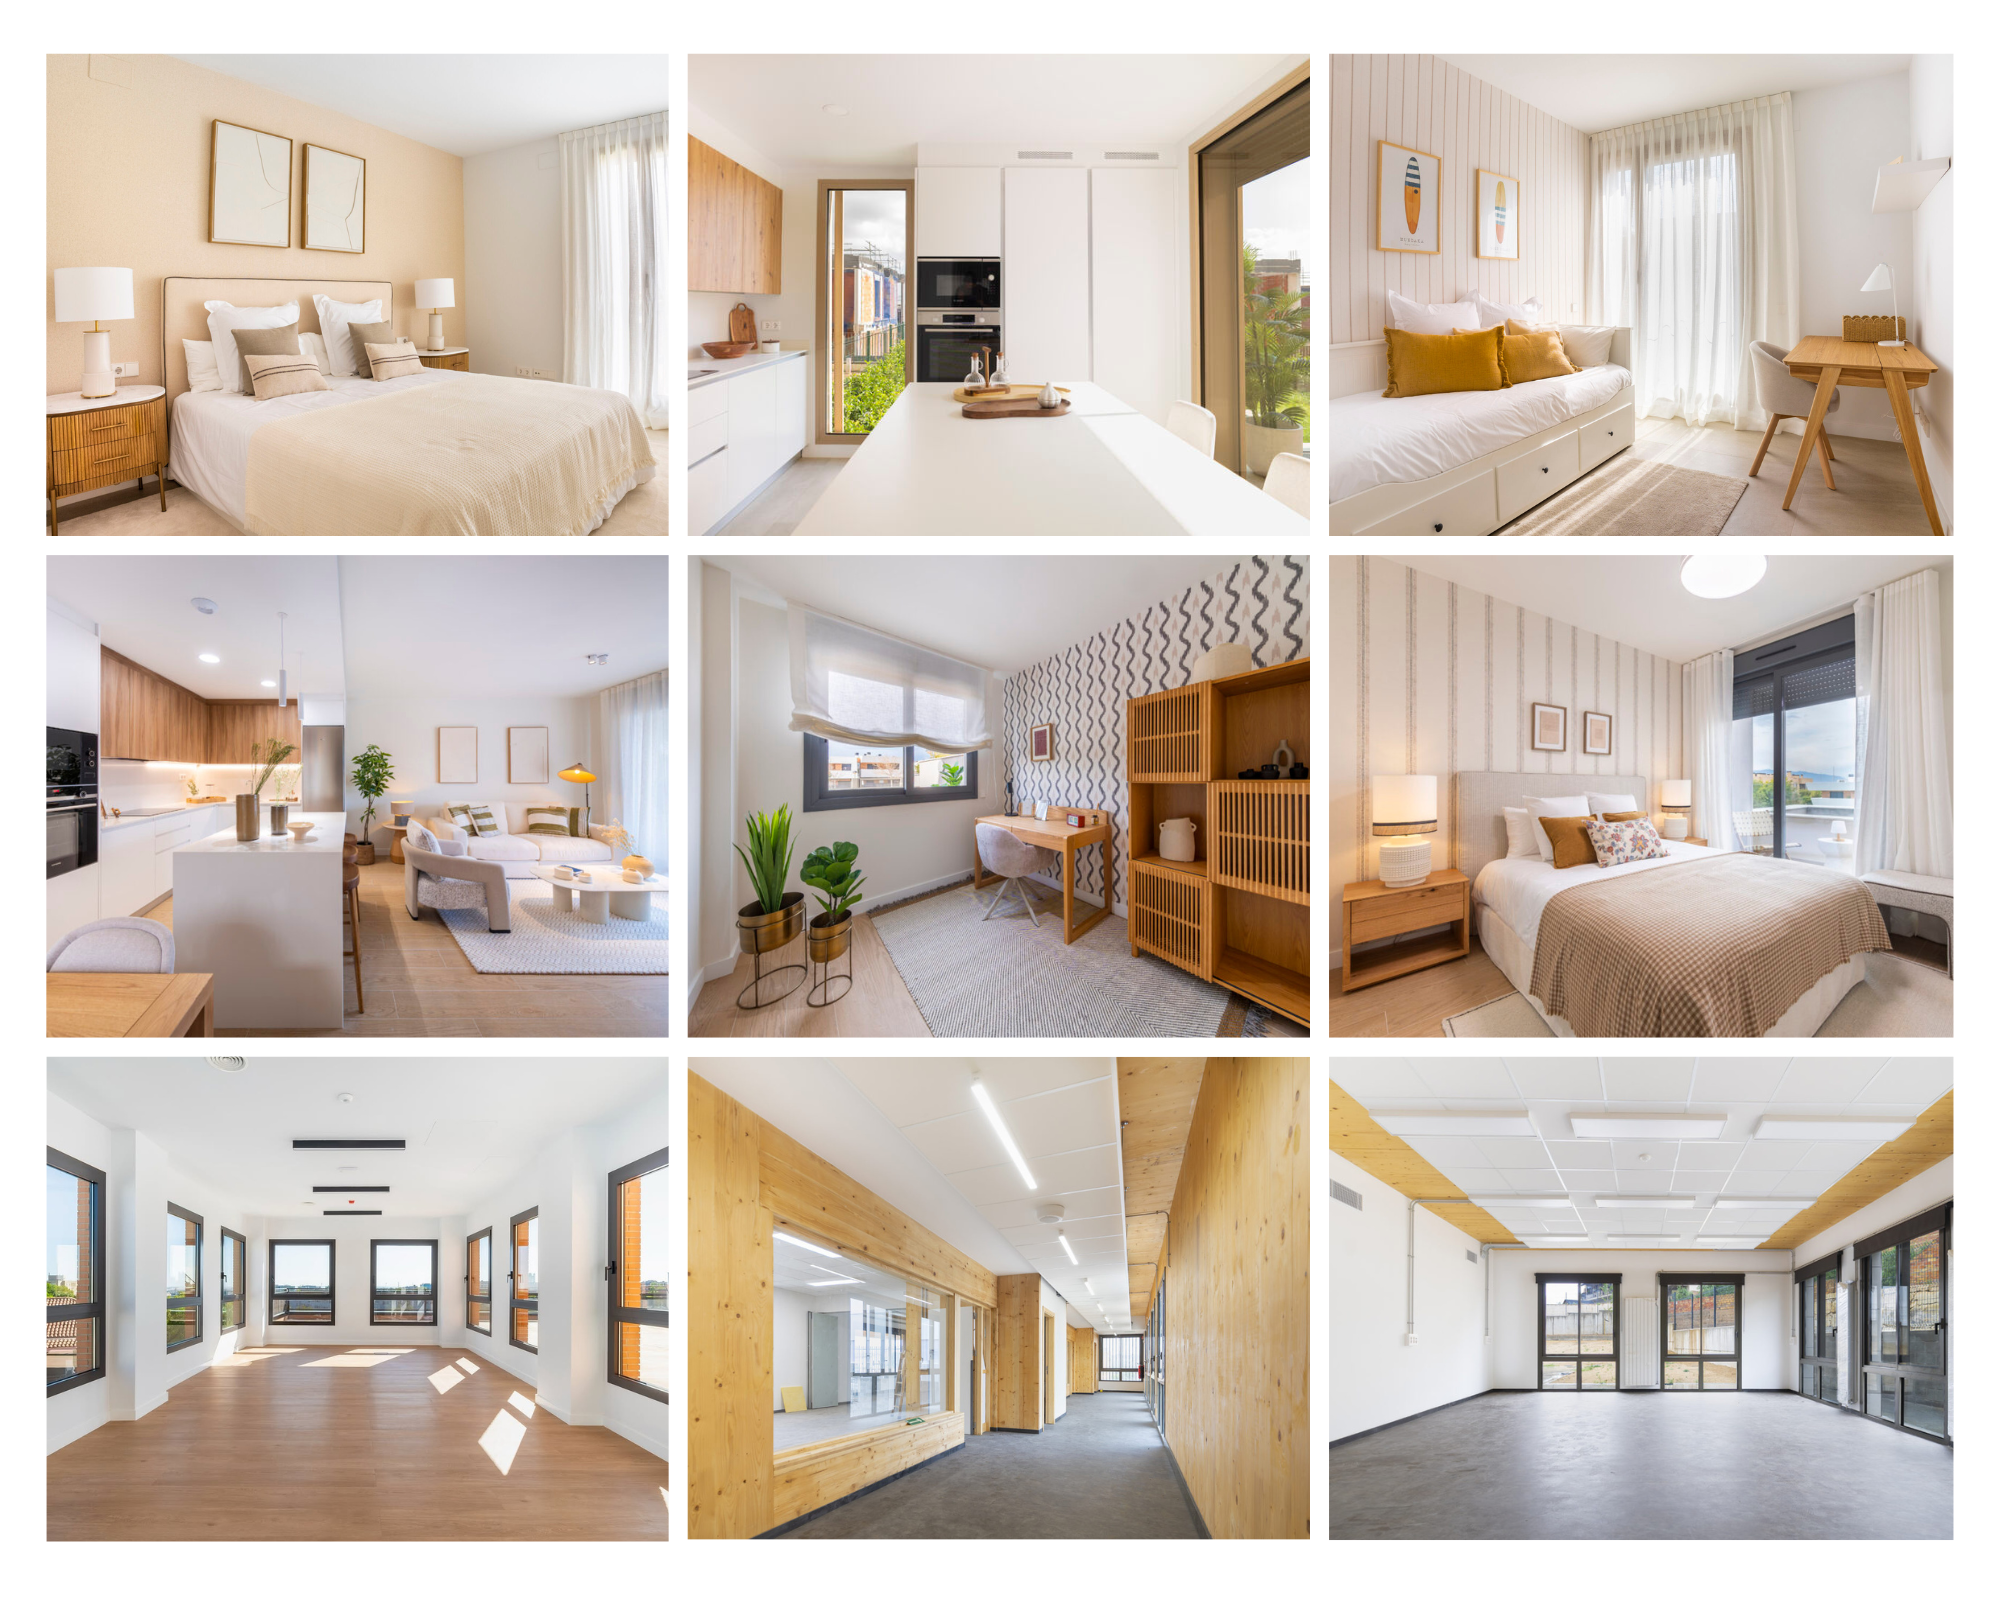
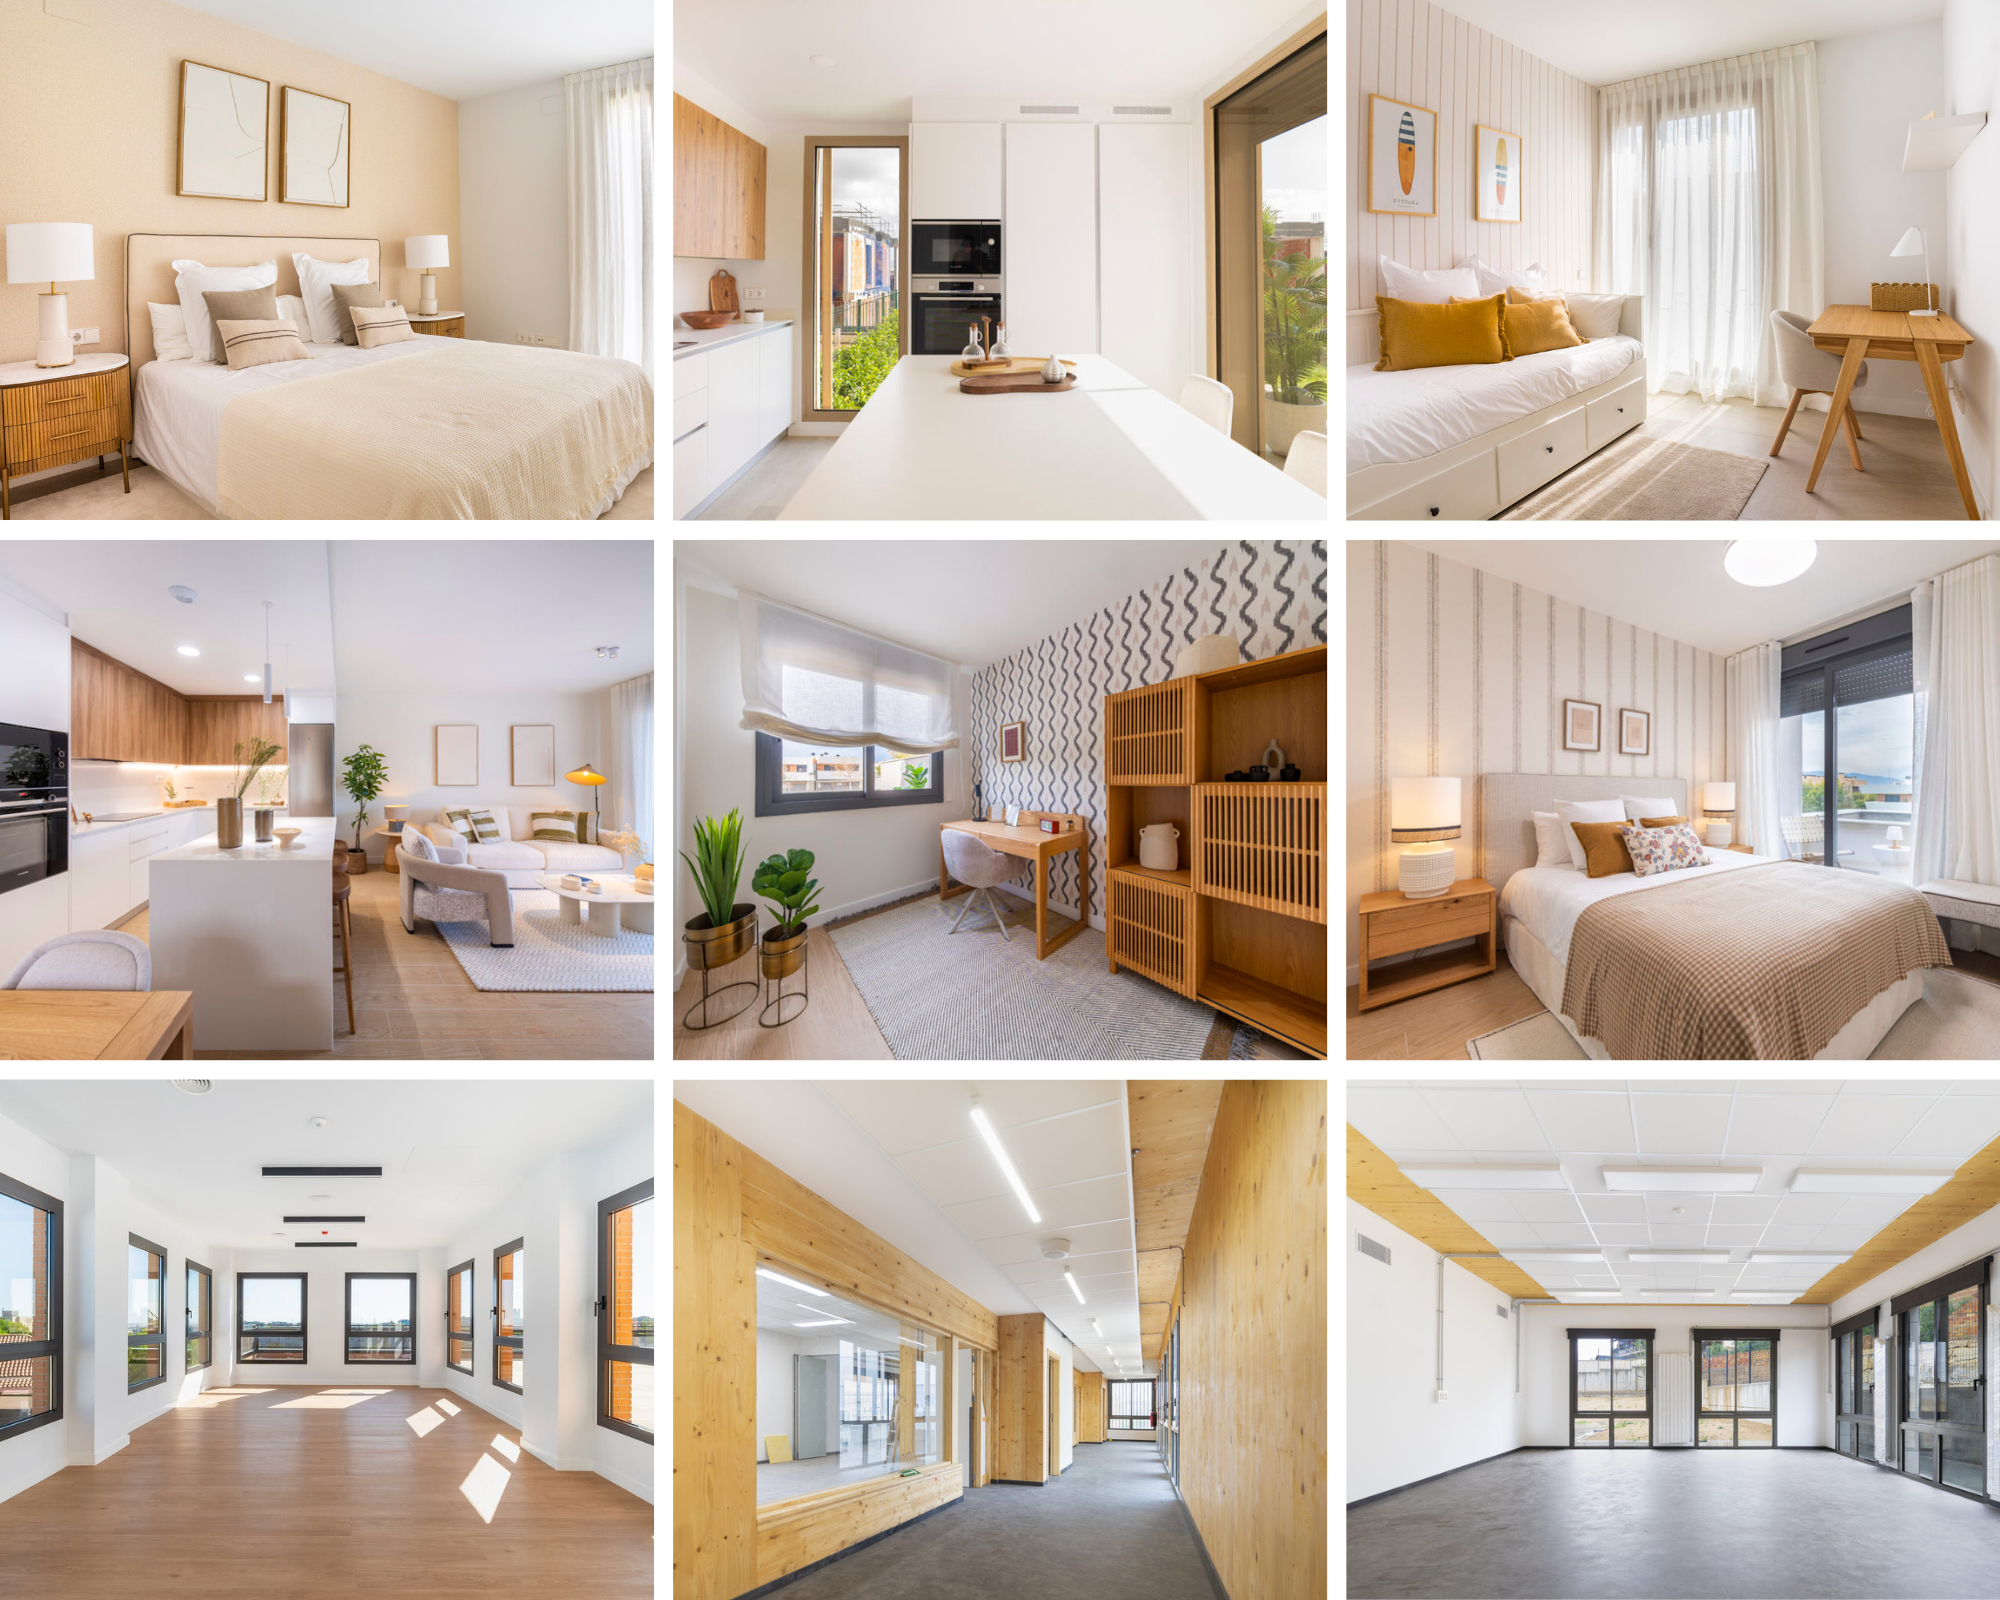
Perfeccionar la web

diff --git a/index.html b/index.html
@@ -162,9 +162,12 @@
       <p class="video-desc">Edición y postproducción fotográfica de imágenes aéreas y terrestres para más de 60 centros deportivos en España e Italia. Trabajo centrado en la corrección de color, equilibrio de iluminación y coherencia visual entre diferentes ubicaciones, asegurando una representación uniforme de la marca en sus canales digitales.</p>
       <div class="project-foto">
         <img src="media/collage%20forus.png" alt="Centros Deportivos Forus">
-        <span class="foto-thumb-label">(Lightroom Classic · Photoshop)</span>
+        <span class="foto-thumb-label">Las imágenes han sido capturadas por la empresa Stupendastic. Editadas con Lightroom Classic y Photoshop</span>
       </div>
-      <p class="video-footter">Esta galería muestra una selección representativa del proyecto. Más imágenes pueden encontrarse en la web de <a href="https://forus.es/" target="_blank">Forus.</a></p>
+      <div class="footer-container">
+      <p class="video-footter">Esta galería muestra una selección representativa del proyecto. Pueden encontarse más imágenes de cada centro en la web de <a href="https://forus.es/" target="_blank">Forus.</a></p>
+
+      </div>
     </div>
 
     <div class="video-entry">
@@ -173,9 +176,16 @@
       <p class="video-desc">Procesado y edición fotográfica de un piso piloto mediante la combinación de múltiples exposiciones para la creación de imágenes HDR. Aplicación de máscaras por zonas para equilibrar la iluminación entre interior y exterior, especialmente en ventanas, integrando la luz de forma natural dentro de la escena. Ajuste de color, control de la iluminación y retoque final para obtener una representación equilibrada y atractiva del espacio.</p>
       <div class="project-foto">
         <img src="media/collage%20pp.png" alt="Pisos Piloto">
-        <span class="foto-thumb-label">(Lightroom Classic · Photoshop)</span>
+        <span class="foto-thumb-label">Las imágenes han sido capturadas por la empresa Stupendastic. Editadas con Lightroom Classic y Photoshop</span>
       </div>
-      <p class="video-footter">Esta galería muestra una selección representativa del proyecto. Más imágenes pueden encontrarse en la web de <a href="https://forus.es/" target="_blank">Forus.</a></p>
+      <div class="footer-container">
+        <p class="video-footter">Esta galería muestra una selección representativa de diferentes proyectos.</p>
+        <p class="video-footter">Parte del trabajo ha sido publicado en <a href="https://www.linkedin.com/posts/stupendastic_realestate-activity-7393576532742483968-0q9c?utm_source=share&utm_medium=member_desktop&rcm=ACoAAC5O9jUBha1Y74nLiPtknvZ-u-uHMnKEQ14" target="_blank">LinkedIn por Stupendastic</a> para el inmueble de Aedas Homes.</p>
+        <p class="video-footter">Las otras imágenes han sido utilizadas en la comunicación digital de diferentes empresas: <a href="https://aq-acentor.com/promocion/aq-eyren/" target="_blank">Aq Acentor</a>, <a href="https://www.instagram.com/p/DPgABzDCPbS/?img_index=5" target="_blank">Roig Construcciones</a> y <a href="https://www.grupmas.com/projecte-obra-nova-escola-albesa.php" target="_blank">GrupoMas.</a></p>
+
+      </div>
+      
+
 
     </div>
 
@@ -185,10 +195,13 @@
       <p class="video-desc">Edición y postproducción de fotografías aéreas para diferentes publicaciones digitales. Trabajo centrado en la reducción de ruido, ajuste de color y uso de máscaras selectivas para equilibrar cielo y paisaje, consiguiendo una mayor coherencia visual y naturalidad en la imagen.</p>
       <div class="project-foto">
         <img src="media/collage%20drone.png" alt="Fotografías aéreas">
-        <span class="foto-thumb-label">(Lightroom Classic · Photoshop)</span>
+        <span class="foto-thumb-label">Las imágenes han sido capturadas por la empresa Stupendastic. Editadas con Lightroom Classic y Photoshop</span>
       </div>
-      <p class="video-footter">Esta galería muestra una selección representativa del proyecto. Más imágenes pueden encontrarse en la web de <a href="https://forus.es/" target="_blank">Forus.</a></p>
+            
+      <div class="footer-container">
 
+      <p class="video-footter">Esta galería reúne una selección de imágenes aéreas utilizadas en publicaciones digitales de la empresa Stupendastic en LinkedIn: Montjuic, Madrid, Masquefa, Torre Glories, Plaza Glories, Punxes, PArque Eolico y Edicio Estel</p>
+</div>
     </div>
 
 

diff --git a/styles.css b/styles.css
@@ -182,6 +182,7 @@ nav {
 }
 
 .foto-thumb-label {
+  font-family: 'Hurme';
   position: absolute;
   bottom: 2.5rem;
   left: 1.8rem;
@@ -234,10 +235,19 @@ nav {
   margin-bottom: 2rem; letter-spacing: 0.02em;
 }
 
+.footer-container {
+  display: flex;
+  flex-direction: column;
+  gap: 0.5rem;
+  margin-top: 2rem;
+}
+
 .video-footter{
-  font-family: 'Gara';
-  font-size: 1rem;
-  padding-top: 0.8rem;
+    font-family: 'Hurme';
+  font-size: 0.68rem; letter-spacing: 0.16em;
+  text-transform: uppercase; color: #aaa;
+  font-weight: 400; 
+  
 }
 
 .video-embed {